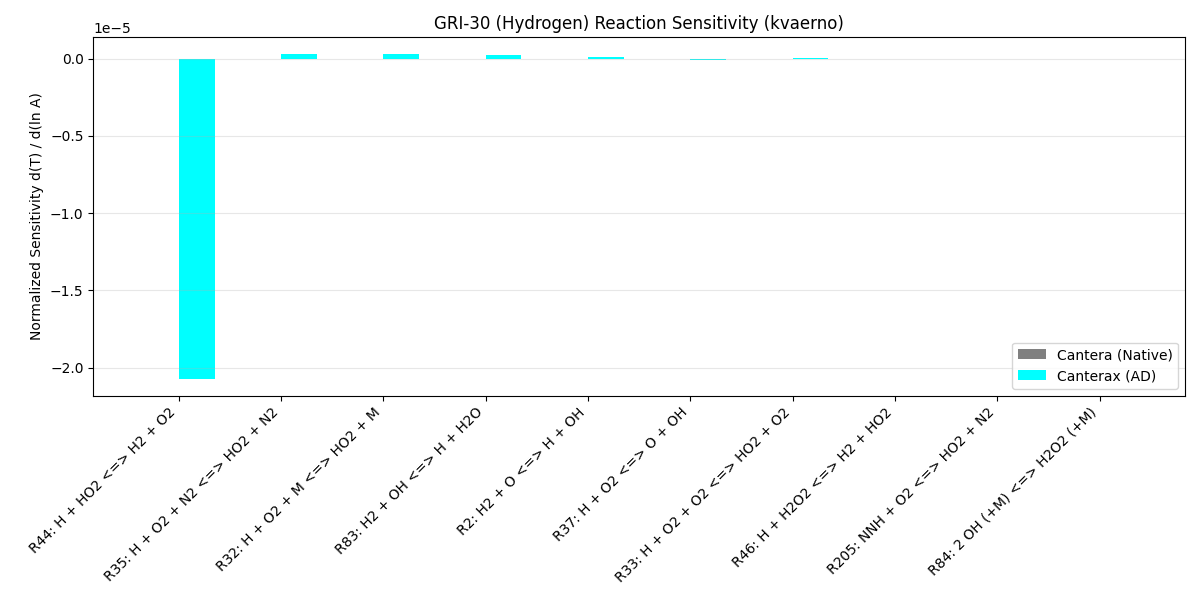
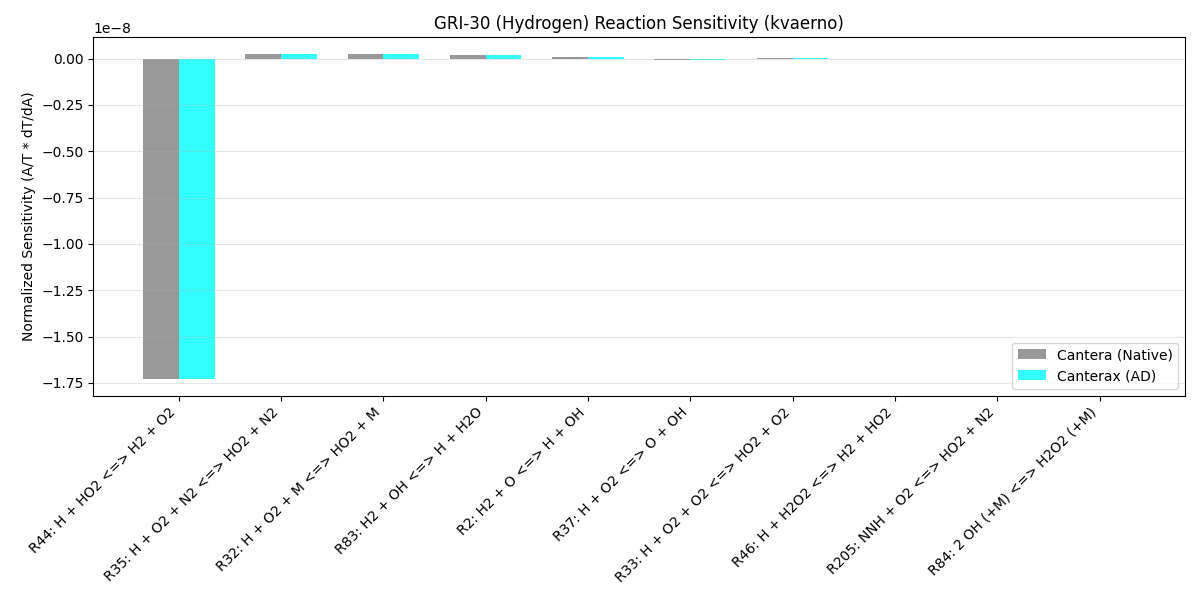
Fix: Improve sensitivity analysis plotting and update validation docs

diff --git a/tests/test_validation_suite.py b/tests/test_validation_suite.py
@@ -229,9 +229,11 @@ def validate_mechanism(name, yaml_path, initial_conditions, skip_sensitivity=Fal
             grad_mech = eqx.filter_grad(grad_fun)(mech_jt, sol_jt.Y)
             jt_sens_time_warm = time.time() - t0
             
-            grad_jt_norm = np.array(grad_mech.A * mech_jt.A) # This is dT/d(ln A)
-            _, jt_sens_steps = get_final_T(mech_jt, sol_jt.Y)
-            print(f" Done ({jt_sens_time_jit:.2f}s JIT, {jt_sens_time_warm:.4f}s Warm, {jt_sens_steps} steps)", flush=True)
+            # Normalize Canterax sensitivity to match Cantera: (A/T) * dT/dA
+            # Current calc: grad_mech.A * mech_jt.A = A * dT/dA
+            # So we need to divide by T_final.
+            T_final_jt, _ = get_final_T(mech_jt, sol_jt.Y)
+            grad_jt_norm = np.array(grad_mech.A * mech_jt.A) / T_final_jt
             
             print(f"  Computing Cantera native sensitivities...", end="", flush=True)
             sol_ct.TPX = T0, P0, X0_str
@@ -253,18 +255,25 @@ def validate_mechanism(name, yaml_path, initial_conditions, skip_sensitivity=Fal
             
             grad_ct_norm = []
             for i in range(sol_ct.n_reactions):
+                # Cantera returns (ki/T) * dT/dki
                 grad_ct_norm.append(net_ct.sensitivity('temperature', i))
             grad_ct_norm = np.array(grad_ct_norm)
             
-            plt.figure(figsize=(12, 6))
+            # Print top sensitivities for debugging
             top_sens_idx = np.argsort(np.abs(grad_ct_norm))[-10:][::-1]
+            print(f"  Top 5 Sensitivities for {name}:")
+            for i in top_sens_idx[:5]:
+                print(f"    R{i}: CT={grad_ct_norm[i]:.2e}, JT={grad_jt_norm[i]:.2e}, Ratio={grad_jt_norm[i]/grad_ct_norm[i] if abs(grad_ct_norm[i])>1e-12 else 0:.2f}")
+
+            plt.figure(figsize=(12, 6))
             labels = [f"R{i}: {sol_ct.reaction(i).equation}"[:30] for i in top_sens_idx]
             x = np.arange(len(labels))
             width = 0.35
-            plt.bar(x - width/2, grad_ct_norm[top_sens_idx], width, label='Cantera (Native)', color='gray')
-            plt.bar(x + width/2, grad_jt_norm[top_sens_idx], width, label='Canterax (AD)', color='cyan')
+            # Plot Side-by-Side
+            plt.bar(x - width/2, grad_ct_norm[top_sens_idx], width, label='Cantera (Native)', color='gray', alpha=0.8)
+            plt.bar(x + width/2, grad_jt_norm[top_sens_idx], width, label='Canterax (AD)', color='cyan', alpha=0.8)
             plt.xticks(x, labels, rotation=45, ha='right')
-            plt.ylabel('Normalized Sensitivity d(T) / d(ln A)')
+            plt.ylabel('Normalized Sensitivity (A/T * dT/dA)')
             plt.title(f'{name} Reaction Sensitivity ({solver_name})')
             plt.legend()
             plt.grid(axis='y', alpha=0.3)
